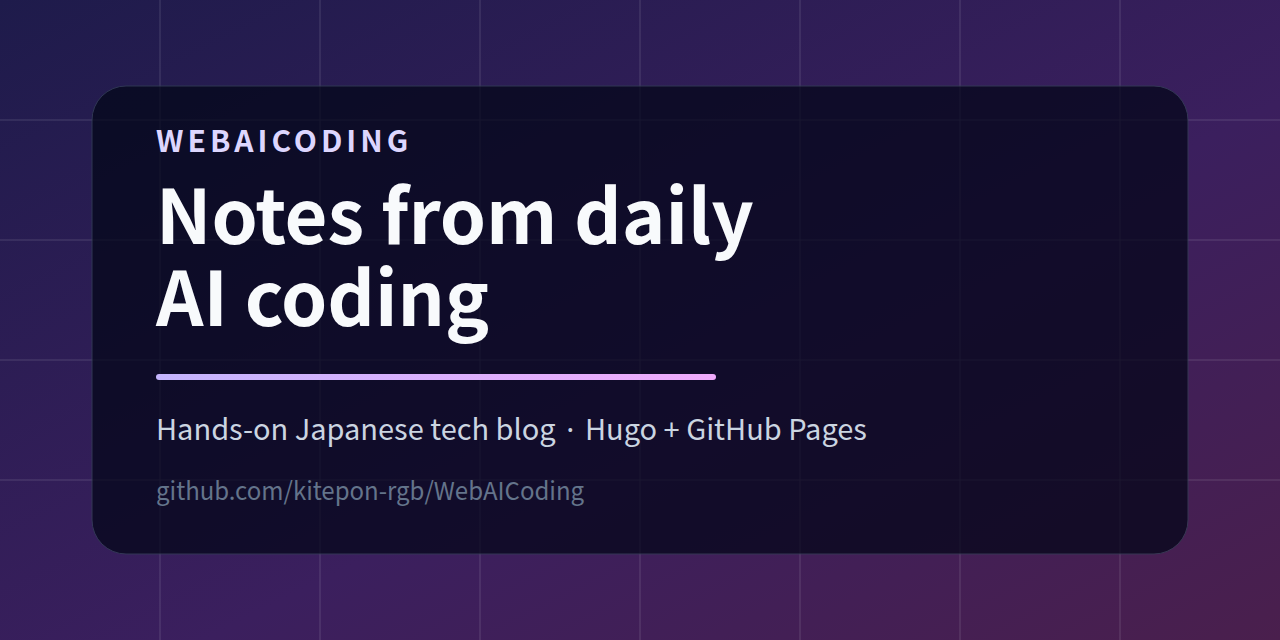
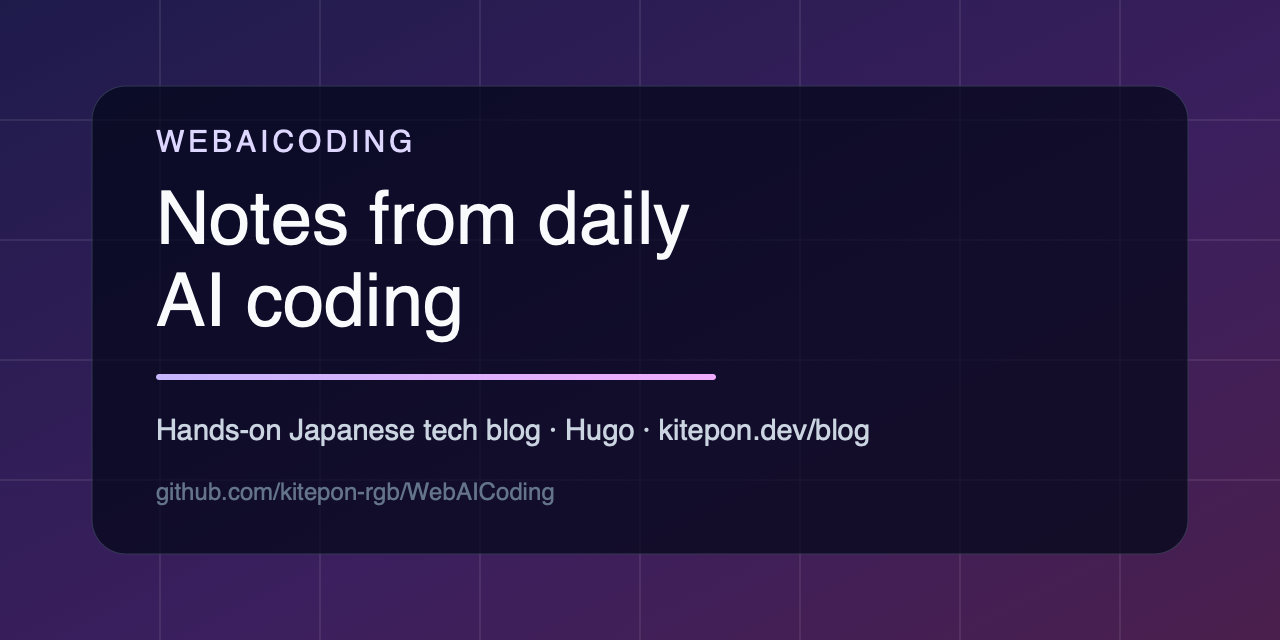
ブログ配信をkitepon.dev配下へ切り替える

diff --git a/README.ja.md b/README.ja.md
@@ -4,17 +4,17 @@
 
 # WebAICoding
 
-[![CI](https://github.com/kitepon-rgb/WebAICoding/actions/workflows/deploy.yml/badge.svg)](https://github.com/kitepon-rgb/WebAICoding/actions/workflows/deploy.yml)
+[![CI](https://github.com/kitepon-rgb/WebAICoding/actions/workflows/validate.yml/badge.svg)](https://github.com/kitepon-rgb/WebAICoding/actions/workflows/validate.yml)
 [![license](https://img.shields.io/github/license/kitepon-rgb/WebAICoding?color=blue)](LICENSE)
 [![Hugo](https://img.shields.io/badge/built%20with-Hugo-ff4088?logo=hugo&logoColor=white)](https://gohugo.io/)
-[![GitHub Pages](https://img.shields.io/badge/hosted%20on-GitHub%20Pages-222?logo=github)](https://kitepon-rgb.github.io/WebAICoding/)
+[![Live](https://img.shields.io/badge/live-kitepon.dev%2Fblog-0b5fff)](https://kitepon.dev/blog/)
 
 [English](README.md) · **日本語**
 
 > **Claude MAX ユーザーが、AI コーディングを実際に使いながら学んだことを記録する技術ブログ。**
-> プログラマーではない人間が、趣味の AI コーディングで実際にハマったこと・うまくいったこと・失敗したことを、Copilot → Cursor → Claude Code と渡り歩きながらそのまま書き残している。このリポジトリはそのソース — GitHub Pages へ自動デプロイされる Hugo 静的サイト。
+> プログラマーではない人間が、趣味の AI コーディングで実際にハマったこと・うまくいったこと・失敗したことを、Copilot → Cursor → Claude Code と渡り歩きながらそのまま書き残している。このリポジトリは、`kitepon.dev`のコンテンツとして配信する Hugo サイトのソース。
 
-**ライブサイト → https://blog.kitepon.dev/**
+**ライブサイト → https://kitepon.dev/blog/**
 
 ## これは何
 
@@ -24,7 +24,7 @@
 - メモリシステム、トークン節約、サーバー管理、自作アプリのリリースなど、実運用ベースの記事
 - 実際に毎日使ってみないと出てこない、ハマりどころ・うまくいったこと・失敗の正直な記録
 
-記事は `content/post/` 以下に Markdown で置いてあり、`main` ブランチへの push で GitHub Actions が Hugo でビルドして GitHub Pages へ自動デプロイします。
+記事は `content/post/` 以下に Markdown で置いてあり、`main` ブランチへの push で GitHub Actions がcontent pipelineとHugo本番buildを検査します。本番は`kitepon.dev`のCaddy配下にある専用nginx containerから配信します。
 
 ## 技術構成
 
@@ -32,20 +32,20 @@
 | --- | --- |
 | 静的サイトジェネレーター | [Hugo](https://gohugo.io/)（extended） |
 | テーマ | 自前（`layouts/` + `assets/` に内蔵。外部テーマ不使用） |
-| ホスティング | GitHub Pages |
-| デプロイ | GitHub Actions（`.github/workflows/deploy.yml`） |
+| ホスティング | Caddyの`/blog*` routing配下にある非root nginx container |
+| 検証 | GitHub Actions（`.github/workflows/validate.yml`） |
+| 本番image | multi-stage [Dockerfile](Dockerfile) |
 | 言語 | 日本語 |
 
 ## デプロイの流れ
 
 ```mermaid
 flowchart LR
-    A["記事を書く<br/>content/post/&lt;slug&gt;/index.md"] -->|git push main| B["GitHub Actions<br/>(deploy.yml)"]
-    B --> C["Setup Hugo<br/>extended"]
-    C --> D["hugo --minify<br/>→ public/"]
-    D --> E["upload-pages-artifact"]
-    E --> F["deploy-pages"]
-    F --> G(["GitHub Pages<br/>blog.kitepon.dev"])
+    A["記事を書く<br/>content/post/&lt;slug&gt;/index.md"] -->|git push main| B["GitHub Actions<br/>validate.yml"]
+    B --> C["content検査<br/>Hugo本番build"]
+    C -->|検証済みmain commit| D["Docker multi-stage build<br/>Hugo → nginx"]
+    D --> E["Caddy /blog* routing"]
+    E --> F(["kitepon.dev/blog/"])
 ```
 
 `draft: false` の記事だけが本番に公開されます。
@@ -97,7 +97,8 @@ node generate-cover.js "タイトル1行目" "タイトル2行目" "../../conten
 
 デザイン仕様や詳細は [tools/cover/README.md](tools/cover/README.md) を参照。
 
-`draft: false` の記事だけが本番に公開されます。`main` に push すると自動でデプロイされます。
+`draft: false` にしてから公開します。`main` へのpushは検証を起動し、本番公開は
+検証済みmain commitから専用blog containerを更新します。
 
 ## ディレクトリ構成
 

diff --git a/README.md b/README.md
@@ -4,17 +4,17 @@
 
 # WebAICoding
 
-[![CI](https://github.com/kitepon-rgb/WebAICoding/actions/workflows/deploy.yml/badge.svg)](https://github.com/kitepon-rgb/WebAICoding/actions/workflows/deploy.yml)
+[![CI](https://github.com/kitepon-rgb/WebAICoding/actions/workflows/validate.yml/badge.svg)](https://github.com/kitepon-rgb/WebAICoding/actions/workflows/validate.yml)
 [![license](https://img.shields.io/github/license/kitepon-rgb/WebAICoding?color=blue)](LICENSE)
 [![Hugo](https://img.shields.io/badge/built%20with-Hugo-ff4088?logo=hugo&logoColor=white)](https://gohugo.io/)
-[![GitHub Pages](https://img.shields.io/badge/hosted%20on-GitHub%20Pages-222?logo=github)](https://kitepon-rgb.github.io/WebAICoding/)
+[![Live](https://img.shields.io/badge/live-kitepon.dev%2Fblog-0b5fff)](https://kitepon.dev/blog/)
 
 **English** · [日本語](README.ja.md)
 
 > **A hands-on Japanese tech blog about everyday AI coding with Claude Code.**
-> A non-programmer hobbyist writes down what actually worked, what broke, and what they learned while building software with AI — Copilot to Cursor to Claude Code. This repo is the source: a Hugo static site that auto-deploys to GitHub Pages.
+> A non-programmer hobbyist writes down what actually worked, what broke, and what they learned while building software with AI — Copilot to Cursor to Claude Code. This repo is the source of the Hugo site served as part of `kitepon.dev`.
 
-**Live site → https://blog.kitepon.dev/**
+**Live site → https://kitepon.dev/blog/**
 
 ## What it is
 
@@ -24,7 +24,7 @@ The blog is written by someone who is **not** a programmer and codes purely as a
 - Practical write-ups: memory systems, token diets, home-server management, and shipping self-made apps
 - Honest accounts of the traps, wins, and failures — the kind of detail you only get from actually using the tools daily
 
-Articles live as Markdown under `content/post/`. Every push to `main` triggers GitHub Actions, which builds the site with Hugo and deploys it to GitHub Pages.
+Articles live as Markdown under `content/post/`. Every push to `main` triggers GitHub Actions, which validates the content pipeline and the Hugo production build. Production is served by a dedicated nginx container behind the `kitepon.dev` Caddy edge.
 
 ## Tech stack
 
@@ -32,20 +32,20 @@ Articles live as Markdown under `content/post/`. Every push to `main` triggers G
 | --- | --- |
 | Static site generator | [Hugo](https://gohugo.io/) (extended) |
 | Theme | Custom, hand-built (lives in `layouts/` + `assets/`; no external theme) |
-| Hosting | GitHub Pages |
-| Deploy | GitHub Actions (`.github/workflows/deploy.yml`) |
+| Hosting | Non-root nginx container behind Caddy `/blog*` routing |
+| Validation | GitHub Actions (`.github/workflows/validate.yml`) |
+| Production image | Multi-stage [Dockerfile](Dockerfile) |
 | Content language | Japanese |
 
 ## How it deploys
 
 ```mermaid
 flowchart LR
-    A["Write Markdown<br/>content/post/&lt;slug&gt;/index.md"] -->|git push main| B["GitHub Actions<br/>(deploy.yml)"]
-    B --> C["Setup Hugo<br/>extended"]
-    C --> D["hugo --minify<br/>→ public/"]
-    D --> E["upload-pages-artifact"]
-    E --> F["deploy-pages"]
-    F --> G(["GitHub Pages<br/>blog.kitepon.dev"])
+    A["Write Markdown<br/>content/post/&lt;slug&gt;/index.md"] -->|git push main| B["GitHub Actions<br/>validate.yml"]
+    B --> C["Content checks<br/>Hugo production build"]
+    C -->|validated main commit| D["Docker multi-stage build<br/>Hugo → nginx"]
+    D --> E["Caddy /blog* routing"]
+    E --> F(["kitepon.dev/blog/"])
 ```
 
 Only articles with `draft: false` are published.
@@ -97,7 +97,8 @@ node generate-cover.js "Title line 1" "Title line 2" "../../content/post/your-sl
 
 See [tools/cover/README.md](tools/cover/README.md) for the design spec and details.
 
-Set `draft: false` to publish. Pushing to `main` deploys automatically.
+Set `draft: false` before publication. Pushing to `main` runs validation; production
+publishing updates the dedicated blog container from a validated main commit.
 
 ## Layout
 

diff --git a/docs/adr/0002-kitepon-root-path-container-delivery.md b/docs/adr/0002-kitepon-root-path-container-delivery.md
@@ -1,0 +1,30 @@
+# ADR 0002: Serve the Hugo blog from the kitepon.dev root path
+
+## Status
+
+Accepted
+
+## Context
+
+The blog is a content surface of the `kitepon.dev` master brand. Serving it from the
+separate `blog.kitepon.dev` GitHub Pages site kept the canonical URL, brand navigation,
+and production routing outside the root site.
+
+The Hugo content and its Zenn/dev.to pipeline remain useful and should not be coupled to
+the root site's application image.
+
+## Decision
+
+- Keep Hugo extended as the static site generator and keep the theme in this repository.
+- Use `https://kitepon.dev/blog/` as Hugo's canonical `baseURL`.
+- Build a dedicated non-root nginx image with `Dockerfile`.
+- Route `/blog*` from the root site's Caddy edge to the blog container.
+- Keep `blog.kitepon.dev/*` as a permanent Cloudflare redirect to `/blog/*`.
+- Use GitHub Actions to validate content and the Hugo build, not to deploy GitHub Pages.
+
+## Consequences
+
+- Blog releases and root-site application releases remain independently buildable.
+- Existing links and externally embedded images continue working through the permanent redirect.
+- Production publishing requires updating the running blog container after a validated main commit.
+- ADR 0001's GitHub Pages deployment decision is superseded; its in-repository theme decision remains.

diff --git a/AGENTS.md b/AGENTS.md
@@ -4,7 +4,7 @@
 
 ## Project
 
-「Claude Code 始めました」— Claude MAXユーザーの実体験を中心にした日本語技術ブログ。Hugo + GitHub Pagesで構築し、記事相談、記事生成、公開までを一つの制作工程として扱う。
+「Claude Code 始めました」— Claude MAXユーザーの実体験を中心にした日本語技術ブログ。Hugoで生成し、非root nginx containerをCaddyの`/blog*` path routingで配信する。記事相談、記事生成、公開までを一つの制作工程として扱う。
 
 ## 記事相談 — 会話が主役
 
@@ -46,7 +46,9 @@ hugo server -D
 hugo --minify
 ```
 
-自前テーマは `layouts/` と `assets/` にある。mainへのpushで`.github/workflows/deploy.yml`がGitHub Pagesへ公開する。
+自前テーマは `layouts/` と `assets/` にある。mainへのpushでは
+`.github/workflows/validate.yml`がcontent pipelineとHugo buildを検査する。本番は
+`Dockerfile`で生成した非root nginx containerを`https://kitepon.dev/blog/`へ配信する。
 
 ## 公開の安全境界
 

diff --git a/docs/00_overview.md b/docs/00_overview.md
@@ -3,7 +3,8 @@
 ## Purpose
 
 WebAICoding is the source repository for the Japanese Hugo blog "Claude Code 始めました".
-The live site is published at <https://blog.kitepon.dev/>.
+The live site is published at <https://kitepon.dev/blog/>.
+The legacy `blog.kitepon.dev` hostname permanently redirects to the live path.
 
 ## Canonical Entry Points
 
@@ -26,12 +27,12 @@ The live site is published at <https://blog.kitepon.dev/>.
 - `static/`: Static assets such as favicons and OG images.
 - `tools/cover/`: Playwright-based cover image generator.
 - `tools/zenn-sync/`: Blog-to-Zenn synchronization tool.
-- `.github/workflows/`: GitHub Actions for Pages deploy and dev.to crossposting.
+- `.github/workflows/`: GitHub Actions for content validation and dev.to crossposting.
 - `.agents/skills/`: Shared project skills used by supported agents.
 
 ## Verification
 
-Use the same production build command as the deploy workflow:
+Use the same content gates as the validation workflow:
 
 ```bash
 node tools/validate-content.mjs

diff --git a/docs/site-operations.md b/docs/site-operations.md
@@ -5,9 +5,12 @@
 ## サイト構成
 
 - サイト名: 「Claude Code 始めました」
-- URL: `https://blog.kitepon.dev/`
-- SSG: Hugo extended 0.164.0（`.github/workflows/deploy.yml`と同じ版を使う）
-- ホスティング: GitHub Pages
+- URL: `https://kitepon.dev/blog/`
+- 旧URL: `https://blog.kitepon.dev/`（Cloudflareで新URLへ301）
+- SSG: Hugo extended 0.164.0（`Dockerfile`と`.github/workflows/validate.yml`で同じ版を使う）
+- ホスティング: 非root nginx container。Caddyが`/blog*`をcontainerの8080へrouteする
+- 本番build: `Dockerfile`で`/out/blog`へ生成し、nginxのdocument rootへcopyする
+- healthcheck: `/healthz`
 - テーマ: `layouts/`と`assets/`にある自前テーマ
 - 記事: `content/post/<slug>/index.md`のPage Bundle
 - CSS: `assets/css/main.css`をHugo Pipesでfingerprintして配信

diff --git a/docs/adr/0001-custom-hugo-theme-github-pages.md b/docs/adr/0001-custom-hugo-theme-github-pages.md
@@ -2,7 +2,7 @@
 
 ## Status
 
-Accepted
+Superseded by ADR 0002
 
 ## Context
 
